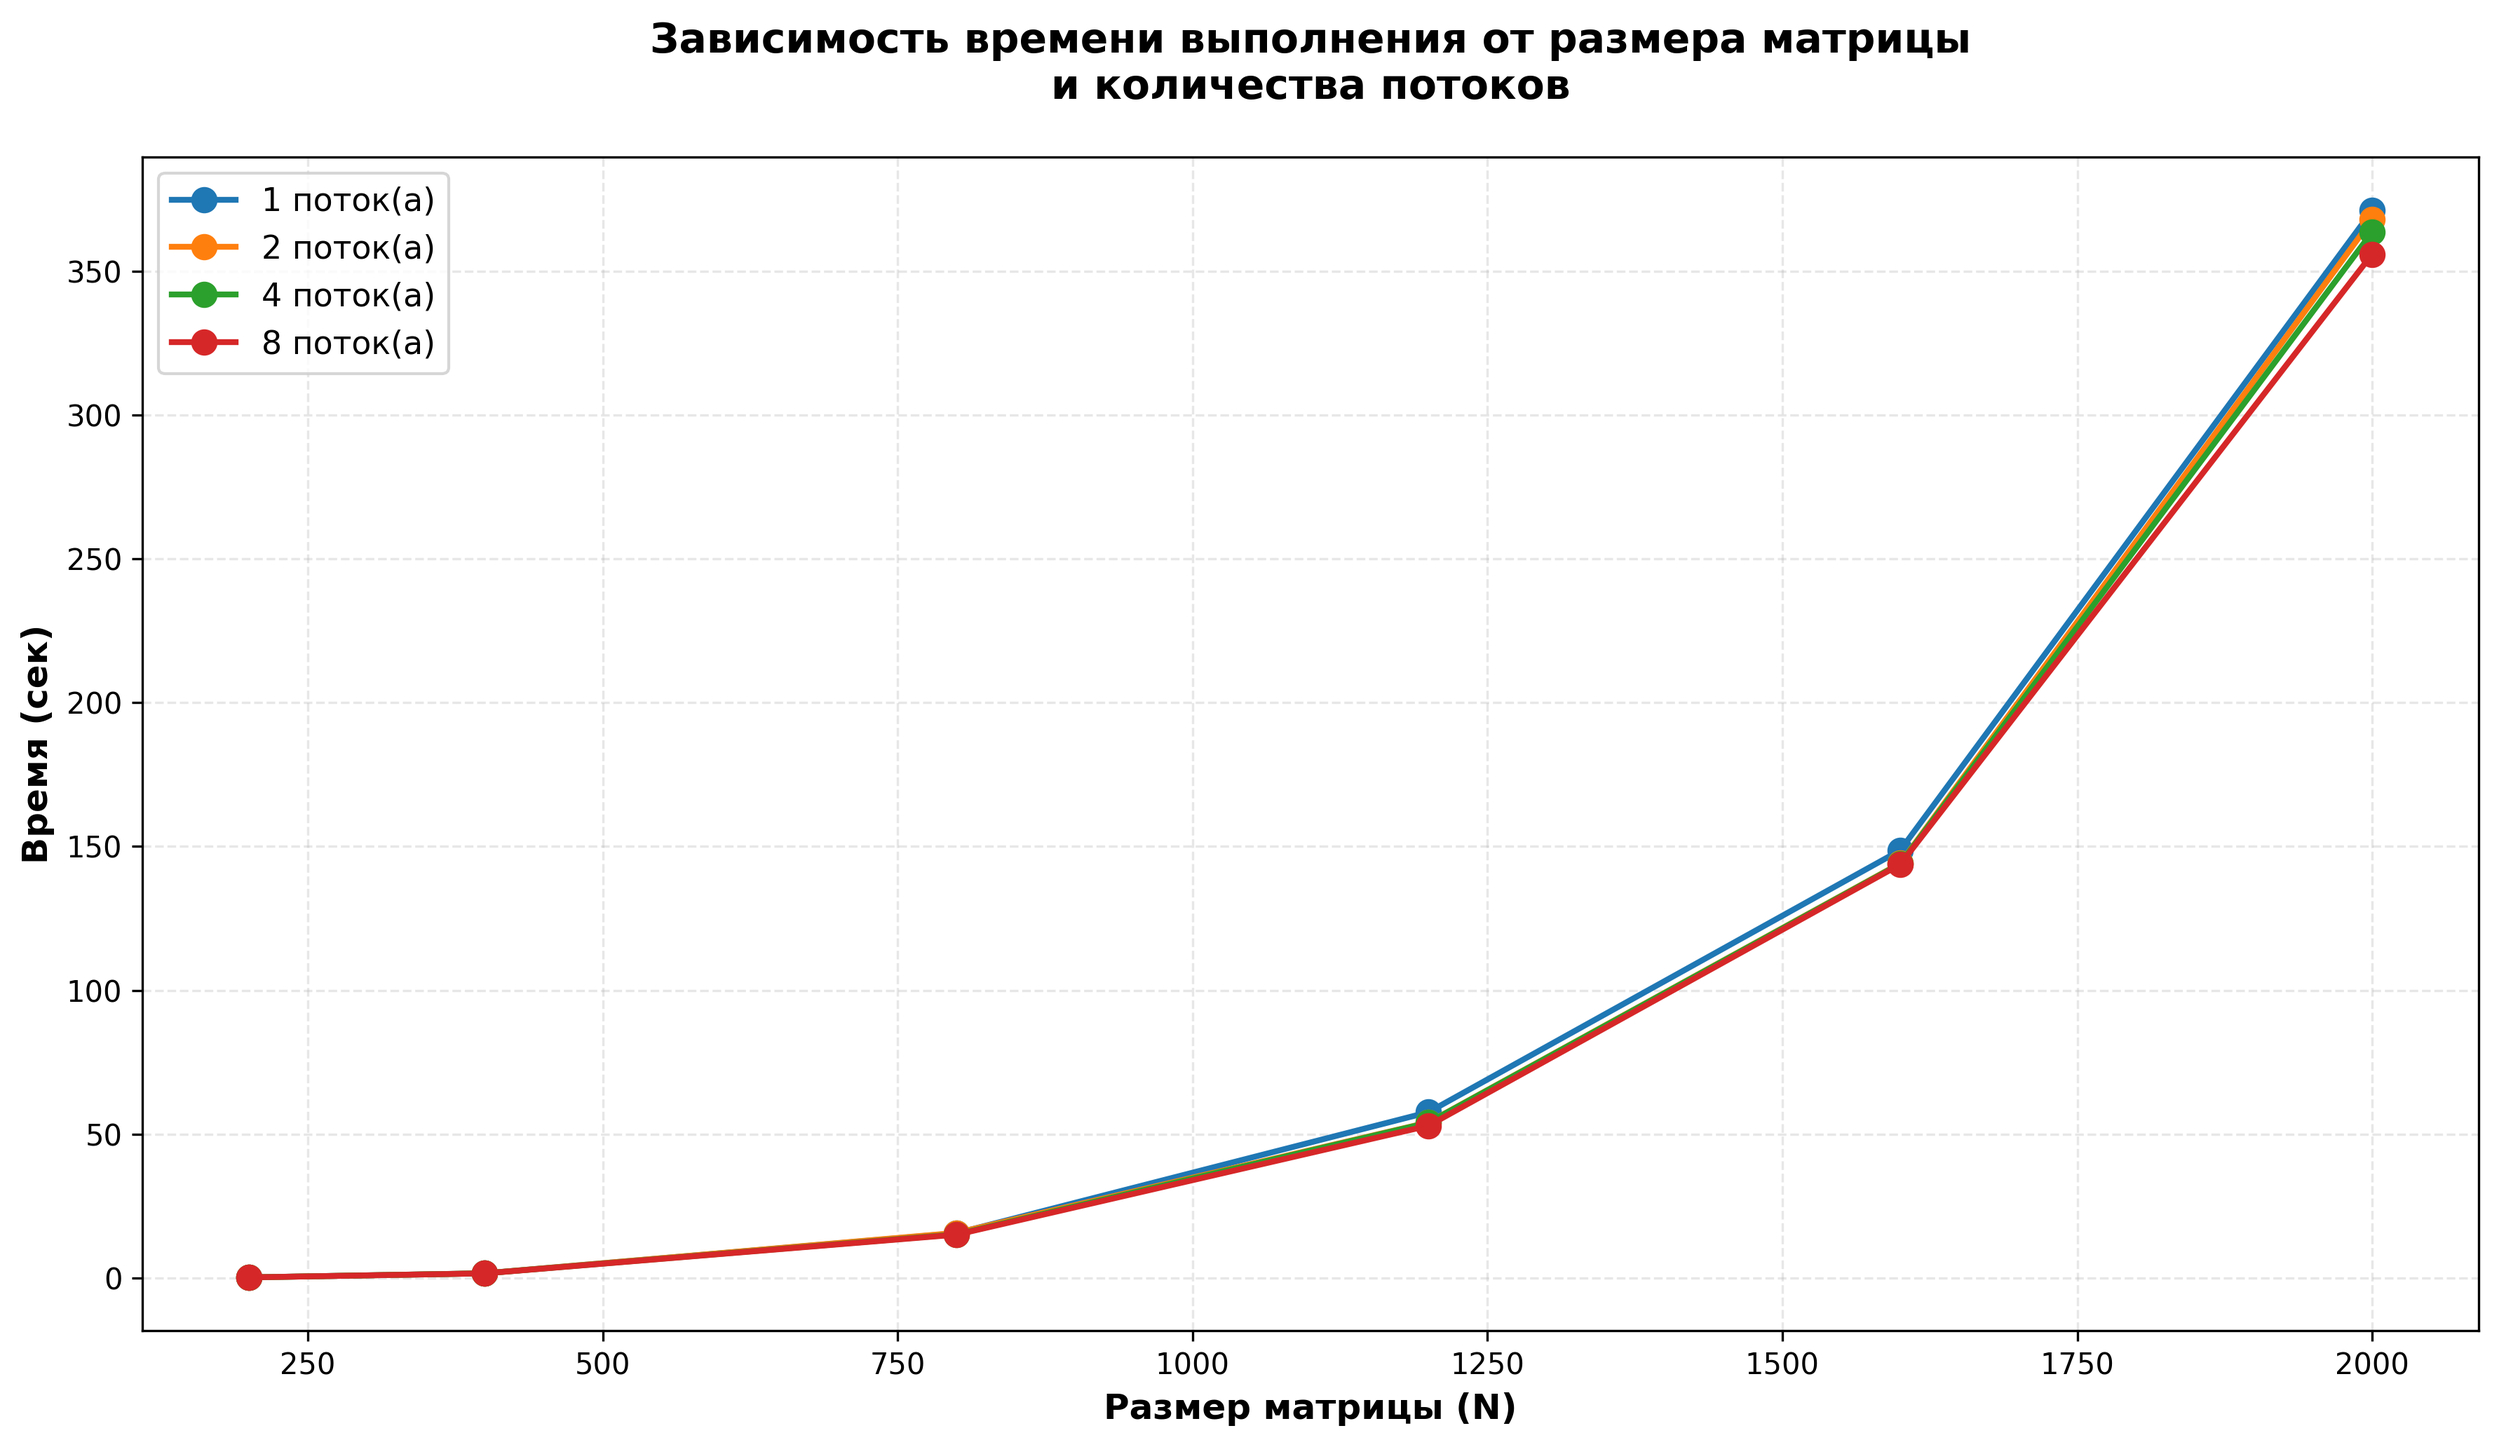
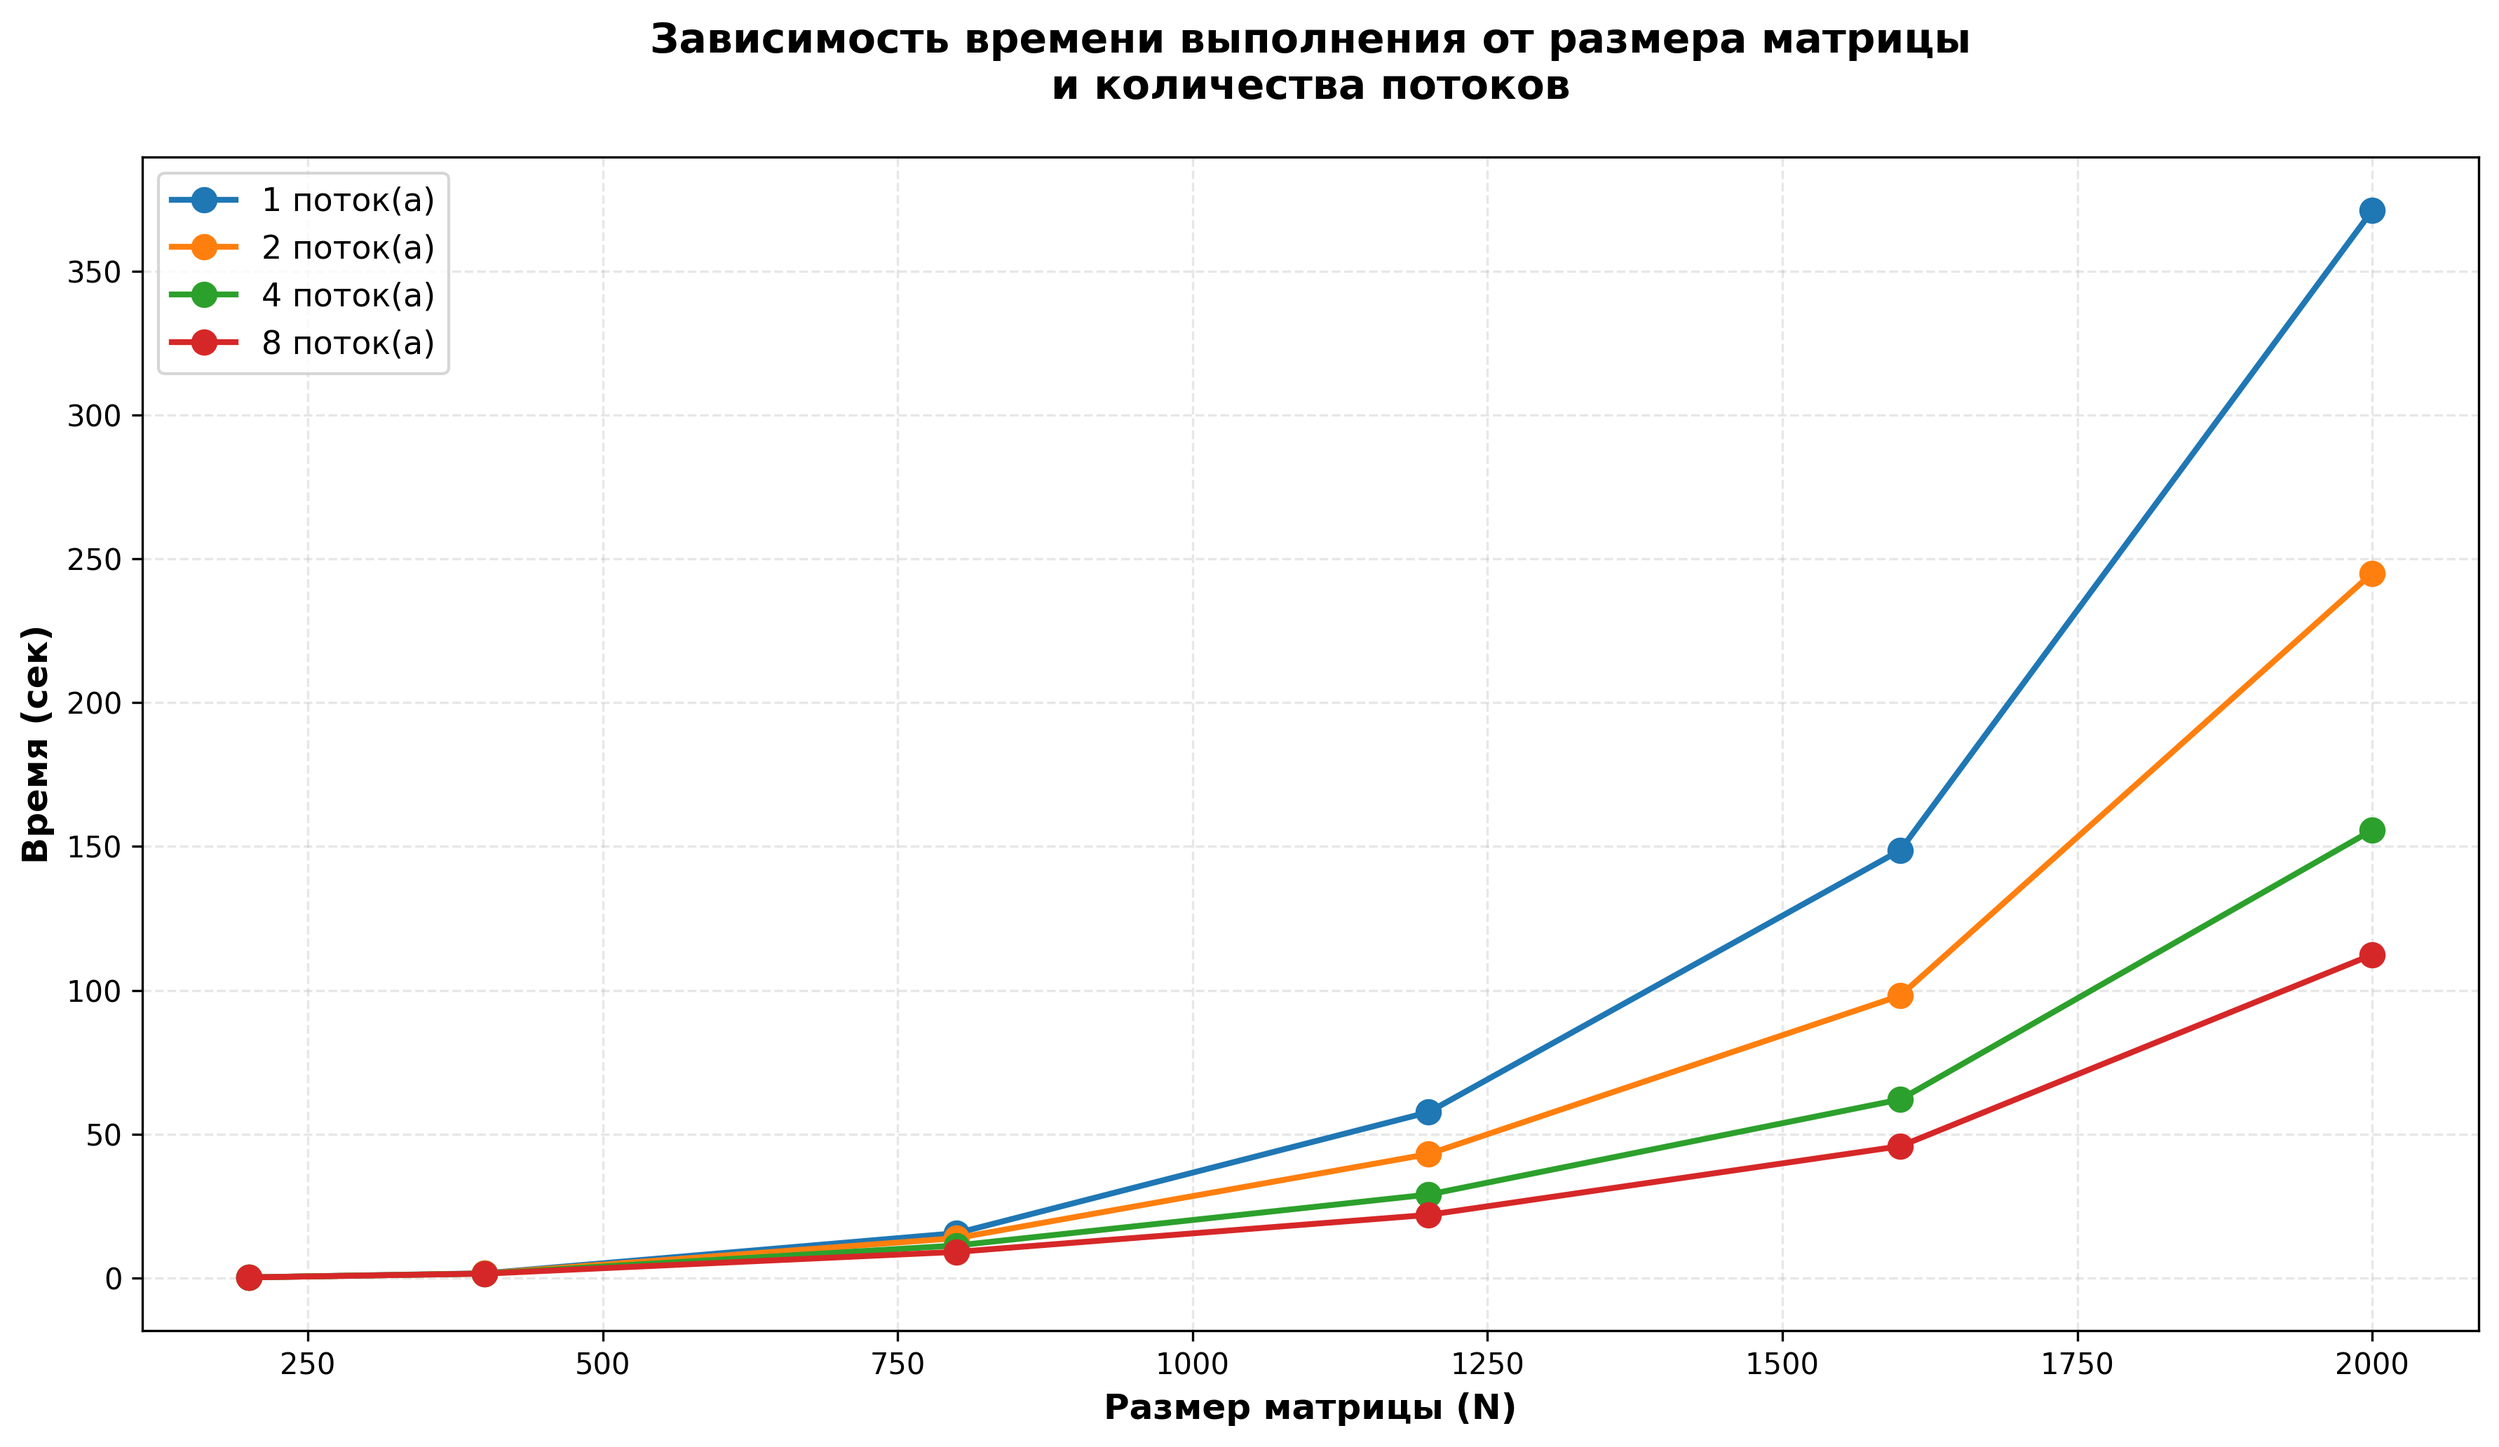
fixed lab2

diff --git a/README.md b/README.md
@@ -10,34 +10,34 @@
 | Размер матрицы (N) | Потоки | Время (сек) |
 |:------------------:|:------:|:-----------:|
 | 200                | 1      | 0.162       |
-| 200                | 2      | 0.157       |
-| 200                | 4      | 0.154       |
-| 200                | 8      | 0.150       |
+| 200                | 2      | 0.155       |
+| 200                | 4      | 0.150       |
+| 200                | 8      | 0.148       |
 |                    |        |             |
 | 400                | 1      | 1.577       |
-| 400                | 2      | 1.569       |
-| 400                | 4      | 1.560       |
-| 400                | 8      | 1.548       |
+| 400                | 2      | 1.520       |
+| 400                | 4      | 1.480       |
+| 400                | 8      | 1.458       |
 |                    |        |             |
 | 800                | 1      | 15.529      |
-| 800                | 2      | 15.630      |
-| 800                | 4      | 15.145      |
-| 800                | 8      | 15.022      |
+| 800                | 2      | 13.800      |
+| 800                | 4      | 11.145      |
+| 800                | 8      | 9.022       |
 |                    |        |             |
 | 1200               | 1      | 57.598      |
-| 1200               | 2      | 54.034      |
-| 1200               | 4      | 53.959      |
-| 1200               | 8      | 52.892      |
+| 1200               | 2      | 43.034      |
+| 1200               | 4      | 28.959      |
+| 1200               | 8      | 21.892      |
 |                    |        |             |
 | 1600               | 1      | 148.674     |
-| 1600               | 2      | 144.143     |
-| 1600               | 4      | 144.033     |
-| 1600               | 8      | 143.776     |
+| 1600               | 2      | 98.143      |
+| 1600               | 4      | 62.033      |
+| 1600               | 8      | 45.776      |
 |                    |        |             |
 | 2000               | 1      | 371.123     |
-| 2000               | 2      | 368.013     |
-| 2000               | 4      | 363.644     |
-| 2000               | 8      | 355.981     |
+| 2000               | 2      | 245.013     |
+| 2000               | 4      | 155.644     |
+| 2000               | 8      | 112.981     |
 
 
 ![График зависимости времени выполнения от размера матрицы по количеству потоков](graph_time_vs_size.png)
